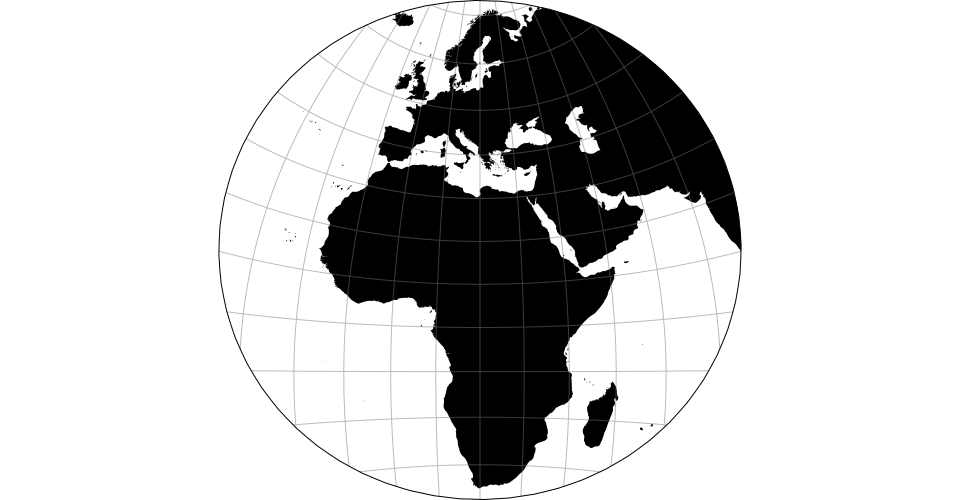
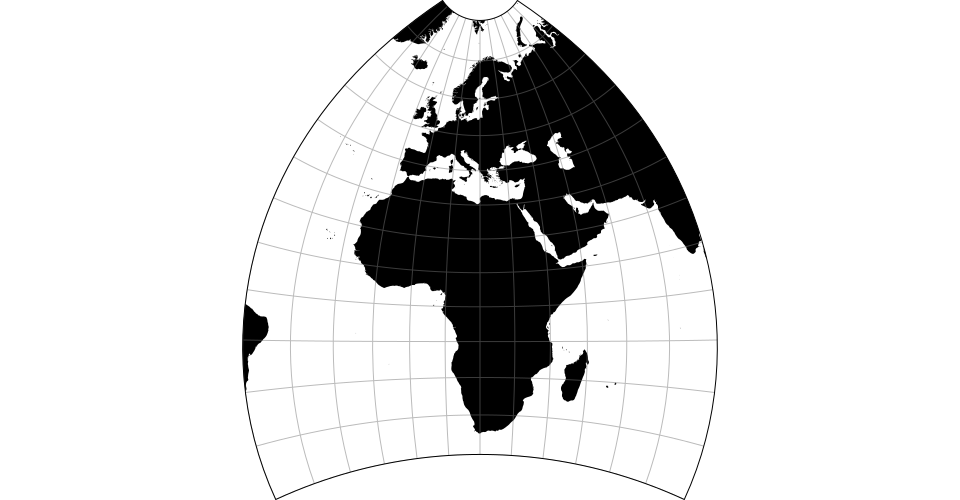
Better modifiedStereographicMiller.

diff --git a/src/modifiedStereographic.js b/src/modifiedStereographic.js
@@ -98,8 +98,9 @@ export function modifiedStereographicGs50() {
 export function modifiedStereographicMiller() {
   return modifiedStereographic(miller)
       .rotate([-20, -18])
-      .scale(265.289)
-      .clipAngle(55);
+      .scale(209.091)
+      .center([0, -1.28])
+      .clipAngle(82);
 }
 
 export function modifiedStereographicLee() {
